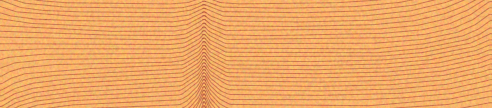
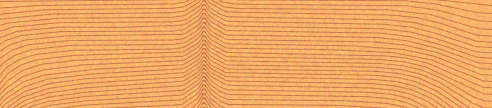
cp-eras-ui: veneer, the EMAIL card's seam is a lattice and the small surfaces' ends fall the right way
The EMAIL card's lines leaned to horizontal at the seam, a dark smear;
they now lean 15-20 degrees into a crossing band and gather to a point
at the right edge, with the top swirl on the main comb. The mail row's
lines curve down into its seam (they rose), with the left end's step;
the SMG button's and BASKET band's right ends fall toward the edge.
Traces that ran out and back along one arm are trimmed. Panel and
store card are byte-identical. Goldens follow.

diff --git a/home/common/pkgs/cp-eras-ui/scripts/make-veneer.py b/home/common/pkgs/cp-eras-ui/scripts/make-veneer.py
@@ -29,6 +29,9 @@ drawn with the *line, ground and grain* measured for the blend generator.
    `ripple` (zigzag), `knot`. Amounts and curves may be piecewise linear
    across the grain ([(s, value), ...]). A family may also be cut to a
    strip across the grain (`swindow`); its lines end at the cut, a jog.
+   A term marked `comb` ('main' or 'twin') shapes that comb only, so the
+   other runs straight through it and the two cross (the EMAIL card's
+   top arcs).
 
 2. Lines. The lines are the levels phi = (k + offset) * pitch: constant
    pitch away from the figure, `pitch` the measured per-comb spacing
@@ -92,6 +95,23 @@ STREAK_LEAN = dict(kind='lean', ts=(110.0, 115.5), w=1.2, amount=(-2.8, -3.0),
 STREAK_BEND = dict(kind='bend', ts=121.46, w=16.0, p=2.0,
                    amount=[(0.0, 0.0), (200.0, -3.0), (235.0, -4.0), (262.0, -3.5)])
 
+# The EMAIL card (2026-11-15 second refinement). LEAN_L is the lower leaf's
+# lean in its mirrored coordinates; the two are not symmetric, so the
+# crossing band sits a little above the axis, as the reference's does.
+EMAIL_LEAN_U = dict(kind='lean', ts=(122.0, 110.0), w=4.0, amount=(-0.3, -0.15))
+EMAIL_LEAN_L = dict(kind='lean', ts=(140.0, 118.0), w=4.0, amount=(-0.3, -0.15))
+EMAIL_CUSP = dict(kind='bend', ts=150.8, w=18.0, c=0.6, amount=(0.0, -50.0), power=3.0)
+EMAIL_EDGE = dict(kind='knot', at=(97.0, 160.0), r=(14.0, 1e6), amount=5.0, real=True)
+EMAIL_TOP = dict(kind='bend', ts=70.0, w=110.0, p=2.0, amount=(0.0, 30.0), real=True)
+EMAIL_SWIRL = dict(kind='shear', ts=44.0, w=9.0, amount=(0.5, 1.3), comb='main')
+MAIL_STEP = [(0.0, 50.0), (17.0, 70.0), (32.0, 60.0), (55.0, 35.0)]
+MAIL_SEAM = dict(kind='bend', ts=238.1, w=6.0, p=2.0, amount=(-1.0, -12.0))
+MAIL_CREASE = dict(kind='bend', ts=238.1, w=2.0, p=2.0, amount=(0.0, -4.0), power=1.5)
+SMG_SEAM = dict(kind='bend', ts=99.6, w=6.0, p=2.0, amount=(4.0, 9.0))
+SMG_CREASE = dict(kind='bend', ts=99.6, w=1.5, p=2.0, amount=(1.0, 3.0))
+BASKET_SEAM = dict(kind='bend', ts=85.0, w=6.0, p=2.0, amount=(4.5, 5.5))
+BASKET_CREASE = dict(kind='bend', ts=85.0, w=1.5, p=2.0, amount=(2.5, 3.0))
+
 SURFACES = {
     # Store, the selected card's body and socket band (262.1 x 241.7).
     # Vertical grain; the streak at t 121.46 (texel 291.5) is a book-match:
@@ -120,9 +140,17 @@ SURFACES = {
         ],
     ),
     # Dashboard, the selected EMAIL cascade card (#ncardsel, 90.5 x 325.2).
-    # Vertical grain; book-match about t 150.8 (texel 362), where both
-    # leaves hook right into a point at the right edge; a crossing leaf
-    # at the top-left chamfer; the foot bends left along the diagonal cut.
+    # Vertical grain, denser in the upper half (EMAIL_TOP) and towards the
+    # right edge (EMAIL_EDGE); book-match about t 150.8 (texel 362). Both
+    # leaves lean into the seam (EMAIL_LEAN_*: about 15-20 deg) and on
+    # across it, so at the left they cross in a lattice band from t ~125
+    # to ~160 (texel 300-384, the reference's); towards the right edge
+    # EMAIL_CUSP, a knee at the axis gathered to the edge (power 3), turns
+    # them into a spindle whose point is on the right edge at the axis.
+    # At the top the main comb alone shears up-left above t 44
+    # (EMAIL_SWIRL, `comb`), the twin running on straight through it: the
+    # reference's crossing arcs under the chamfer. The foot leans a little
+    # left along the diagonal cut.
     'dashboard-email': dict(
         size=(90.5, 325.2), axis='v', seed=1101, pitch=8.9 / R,
         twin=dict(offset=0.62, shift=-1.0),
@@ -130,17 +158,10 @@ SURFACES = {
         wave=dict(amp=1.6, along=160.0, across=40.0),
         kinks=dict(n=10, amp=1.2, rs=(3.0, 8.0), rt=(4.0, 12.0)),
         families=[
-            # Each leaf runs straight, then leans right ever harder into
-            # the seam and on across it, so the two leaves cross there.
-            dict(window=(None, 157.0), terms=[
-                dict(kind='bend', ts=0.0, w=30.0, amount=(-34.0, -10.0)),
-                dict(kind='lean', ts=(124.0, 96.0), w=3.0, amount=(-0.1, -0.1),
-                     accel=(-0.03, -0.1), accel_power=1.0),
-            ]),
-            dict(mirror=150.8, window=(144.6, None), terms=[
-                dict(kind='lean', ts=(124.0, 96.0), w=3.0, amount=(-0.1, -0.1),
-                     accel=(-0.03, -0.1), accel_power=1.0),
-                dict(kind='bend', ts=325.2, w=34.0, amount=(-26.0, -4.0), real=True),
+            dict(window=(None, 160.0), terms=[EMAIL_LEAN_U, EMAIL_CUSP, EMAIL_EDGE, EMAIL_TOP, EMAIL_SWIRL]),
+            dict(mirror=150.8, window=(125.0, None), terms=[
+                EMAIL_LEAN_L, EMAIL_CUSP, EMAIL_EDGE, EMAIL_TOP,
+                dict(kind='bend', ts=325.2, w=34.0, amount=(8.0, 0.0), real=True),
             ]),
         ],
     ),
@@ -186,9 +207,12 @@ SURFACES = {
             ]),
         ],
     ),
-    # Mailbox, the selected row (477 x 55). Horizontal grain; the left end's
-    # lines rise to the top edge; book-match about t 238.1 (texel 571.5):
-    # lines from both sides hook into it, a narrow crease.
+    # Mailbox, the selected row (477 x 55). Horizontal grain; at the left
+    # end the lines rise to the top edge and step down across a band that
+    # bulges right at mid-height (the ramp, centre MAIL_STEP, 36 wide);
+    # book-match about t 238.1 (texel 571.5): lines from both sides curve
+    # DOWN into it (the reference's arcs; the third pass had them rising),
+    # more towards the bottom edge.
     'mailbox-row': dict(
         size=(477.0, 55.0), axis='h', seed=1303, pitch=5.7 / R,
         twin=dict(offset=0.74),
@@ -197,19 +221,19 @@ SURFACES = {
         kinks=dict(n=10, amp=0.8, rs=(2.0, 5.0), rt=(6.0, 18.0)),
         families=[
             dict(window=(None, 239.0), terms=[
-                dict(kind='bend', ts=0.0, w=24.0, amount=(22.0, 10.0)),
-                dict(kind='bend', ts=238.1, w=12.0, p=2.0, amount=(4.0, 40.0), power=1.3),
-                dict(kind='bend', ts=238.1, w=2.0, p=2.0, amount=(0.0, 10.0), power=1.5),
+                dict(kind='bend', ts=-3.0, w=14.0, amount=(32.0, 12.0)),
+                dict(kind='ramp', k=5.0, a=[(x, t - 18.0) for x, t in MAIL_STEP],
+                     b=[(x, t + 18.0) for x, t in MAIL_STEP], amount=[(0.0, -16.0), (55.0, -16.0)]),
+                MAIL_SEAM, MAIL_CREASE,
             ]),
-            dict(mirror=238.1, window=(237.2, None), terms=[
-                dict(kind='bend', ts=238.1, w=12.0, p=2.0, amount=(4.0, 40.0), power=1.3),
-                dict(kind='bend', ts=238.1, w=2.0, p=2.0, amount=(0.0, 10.0), power=1.5),
-            ]),
+            dict(mirror=238.1, window=(237.2, None), terms=[MAIL_SEAM, MAIL_CREASE]),
         ],
     ),
     # Store, the selected SMG category (200.6 x 38.6). Horizontal grain,
     # lines pinching at the left end; book-match about t 99.6 (texel 239,
-    # the button's middle) where the lines bend into a vertical crease.
+    # the button's middle) where the lines rise into a narrow crease
+    # (about +-10 texels, 20-45 deg, as measured); at the right end they
+    # all fall towards the right edge.
     'store-nav': dict(
         size=(200.6, 38.6), axis='h', seed=1404, pitch=4.9 / R,
         twin=dict(offset=0.61),
@@ -218,21 +242,20 @@ SURFACES = {
         kinks=dict(n=6, amp=0.8, rs=(2.0, 5.0), rt=(5.0, 14.0)),
         families=[
             dict(window=(None, 100.4), terms=[
-                dict(kind='bend', ts=0.0, w=16.0, amount=(14.0, -10.0)),
-                dict(kind='bend', ts=99.6, w=10.0, p=2.0, amount=(3.0, 26.0), power=1.3),
-                dict(kind='bend', ts=99.6, w=2.0, p=2.0, amount=(0.0, 7.0), power=1.5),
+                dict(kind='bend', ts=-3.0, w=16.0, amount=(17.0, -12.0)),
+                SMG_SEAM, SMG_CREASE,
             ]),
             dict(mirror=99.6, window=(98.8, None), terms=[
-                dict(kind='bend', ts=99.6, w=10.0, p=2.0, amount=(3.0, 26.0), power=1.3),
-                dict(kind='bend', ts=99.6, w=2.0, p=2.0, amount=(0.0, 7.0), power=1.5),
-                dict(kind='bend', ts=200.6, w=14.0, amount=(-8.0, 8.0), real=True),
+                SMG_SEAM, SMG_CREASE,
+                dict(kind='bend', ts=200.6, w=20.0, p=2.0, amount=(-16.0, -8.0), real=True),
             ]),
         ],
     ),
     # Store, the BASKET plate's lower band (204.6 x 45). Horizontal grain,
-    # one comb, a crease at t 85 (design x 1377) that the lines barely bend
-    # into -- two leaves meeting, not a mirror (none was measured); they
-    # rise at the right end.
+    # one comb, a crease at t 85 (design x 1377) that the lines bow up
+    # into evenly top to bottom -- two leaves meeting, not a mirror (none
+    # was measured). At the left end the lower lines fall to the edge; at
+    # the right end the lines fall towards the edge, most at the bottom.
     'store-basket': dict(
         size=(204.6, 45.0), axis='h', seed=1606, pitch=4.4 / R,
         look=dict(ground=(249, 181, 107), single=(202, 120, 79), grain=(6.0, 6.0, 6.0)),
@@ -240,14 +263,12 @@ SURFACES = {
         kinks=dict(n=6, amp=0.8, rs=(2.0, 5.0), rt=(5.0, 14.0)),
         families=[
             dict(window=(None, 85.5), terms=[
-                dict(kind='bend', ts=85.0, w=6.0, p=2.0, amount=(2.0, 8.0)),
-                dict(kind='bend', ts=85.0, w=1.5, p=2.0, amount=(1.0, 5.0)),
-                dict(kind='bend', ts=0.0, w=14.0, amount=(6.0, -10.0), real=True),
+                BASKET_SEAM, BASKET_CREASE,
+                dict(kind='bend', ts=-3.0, w=14.0, amount=(0.0, -18.0), real=True),
             ]),
             dict(window=(84.5, None), terms=[
-                dict(kind='bend', ts=85.0, w=6.0, p=2.0, amount=(2.0, 8.0)),
-                dict(kind='bend', ts=85.0, w=1.5, p=2.0, amount=(1.0, 5.0)),
-                dict(kind='bend', ts=204.6, w=22.0, amount=(14.0, 4.0), real=True),
+                BASKET_SEAM, BASKET_CREASE,
+                dict(kind='bend', ts=204.6, w=26.0, p=2.0, amount=(-4.0, -18.0), real=True),
             ]),
         ],
     ),
@@ -447,9 +468,13 @@ def phi_at(surf, fam, s, t, twin):
     """phi of a family, for the main comb or the twin (whose figure terms
     sit `shift` design px further along the grain, so the two combs knee
     on alternate rows, as the reference's do)."""
+    # A term marked `comb` ('main' or 'twin') bends that comb only, so the
+    # other runs straight through it: two leaves crossing in one family.
+    which = 'twin' if twin else 'main'
+    terms = [term for term in fam['terms'] if term.get('comb', which) == which]
     if twin and surf.twin.get('shift'):
-        fam = dict(fam, terms=[shifted(term, surf.twin['shift']) for term in fam['terms']])
-    return family_phi(surf, fam, s, t)[0]
+        terms = [shifted(term, surf.twin['shift']) for term in terms]
+    return family_phi(surf, dict(fam, terms=terms), s, t)[0]
 
 
 def shifted(term, dt):
@@ -590,7 +615,13 @@ def trace_family(surf, fam, twin):
         j = same[np.argmin(dd)]
         if dd.min() < 4 * h and j < i:
             continue
-        keep.append((np.array(paths[i]), int(lev[i])))
+        Q = np.array(paths[i])
+        if len(Q) > 2 and np.hypot(*(Q[-1] - Q[0])) < 4 * h:
+            # Out and back: the tracer stepped through a cusp and came
+            # back along the same arm. Keep the way out only, to its
+            # farthest point, so the arm is not stroked twice.
+            Q = Q[:int(np.argmax(np.hypot(*(Q - Q[0]).T))) + 1]
+        keep.append((Q, int(lev[i])))
     return keep
 
 

diff --git a/home/common/pkgs/cp-eras-ui/docs/neokitsch/veneer-texture.md b/home/common/pkgs/cp-eras-ui/docs/neokitsch/veneer-texture.md
@@ -134,6 +134,101 @@ band past the reference's G < 140 counts); the store card's upper streak
 and zigzag, the EMAIL crossing, the small surfaces' seams and the
 overall line density were not revisited.
 
+### Second refinement (2026-11-15)
+
+Four surfaces refit (EMAIL card, mailbox row, SMG button, BASKET band);
+`dashboard-panel.png` and `store-card.png` are byte-identical. Angles
+below are line directions from a structure tensor on the native 4K crop
+(texel coordinates; for the EMAIL card degrees from vertical, negative =
+going down to the right; for the horizontal surfaces degrees from
+horizontal, positive = rising to the right). Reference / previous / now.
+
+Two generator changes, neither of which alters the panel or store card:
+
+- **`comb`.** A term marked `comb='main'` (or `'twin'`) shapes that comb
+  only; the other runs straight through it, so the two cross.
+- **Out-and-back traces trimmed.** A trace that ends where it started
+  (the tracer stepped through a cusp and came back up the same arm) is
+  cut at its farthest point, so the arm is not stroked twice. The EMAIL
+  card's knee at the axis made six such traces; the old SMG left bend
+  (`p=1` with its corner at t=0, inside the tracing box) made three.
+  The left-end bends of the SMG, mailbox and BASKET now sit at
+  `ts=-3`, outside the box.
+
+- **EMAIL card.** The previous seam bent every line nearly horizontal
+  (angles to +-90 from x 10 to 210) into a dark horizontal band, which
+  is not what the reference does: its lines lean only 15-20 deg into a
+  crossing lattice from texel y ~300 to ~384 at the left, and only
+  towards the right edge do they curve into a spindle whose point is on
+  the right edge at the axis. Now: `EMAIL_LEAN_U` / `EMAIL_LEAN_L`, a
+  lean of -0.3 at the left easing to -0.15 at the right (ts (122, 110)
+  for the upper leaf, (140, 118) for the lower in its mirrored
+  coordinates, so the band sits a little above the axis as the
+  reference's does), windows (None, 160) / (125, None); `EMAIL_CUSP`, a
+  knee bend at the axis (w 18, c 0.6, amount 0 to -50, power 3: only the
+  right edge gathers). Angle at rows 300 / 340 / 380, x 10 ... 210:
+  reference -5 -12 -17 -17 -12 -22 / 0 4 12 12 8 -37 / 5 13 17 13 6 52;
+  previous -11 -29 -55 -75 -85 90 / -55 -75 -88 88 -90 90 / 61 79 89
+  -87 89 -89; now -3 -7 -10 -15 -19 -23 / 2 -3 -17 -40 -66 -71 / -2 2
+  13 36 67 72. The top-left swirl is `EMAIL_SWIRL`, a `shear` on the
+  main comb only (above t 44, w 9, amount 0.5 to 1.3), the twin running
+  straight through it: the reference's crossing arcs under the chamfer
+  (its angle at y 0-60 is negative, up-left; the previous top bend leaned
+  the other way, +20..+35). `EMAIL_TOP` (a bend proportional to s, real,
+  t 70, w 110, 30) packs the upper half tighter and `EMAIL_EDGE` (a
+  knot centred past the right edge, r 14, 5) the right edge, as measured:
+  pitch at y 100-260 in six bins across, reference 5.5 4.2 3.8 3.7 3.9
+  3.1, previous 4.5 4.1 4.4 4.5 4.4 4.6, now 4.6 3.7 4.1 3.9 3.9 4.0. The
+  foot's bend now leans the lines a little left (amount 8 to 0), as the
+  reference's do (+3..+12 at y 560-660; the previous -5..-26).
+- **Mailbox row.** The seam's lines curved the wrong way: in the
+  reference they curve *down* into the seam, more towards the bottom
+  edge; ours rose. `MAIL_SEAM` is now w 6, amount -1 to -12 (was w 12,
+  4 to 40), `MAIL_CREASE` 0 to -4. Angle at x 530 / 545 / 560 (left of
+  the seam), rows 90 and 130: reference -80(text) 87(text) -60 / -2 -19
+  -54; previous 33 50 63 / 58 74 65; now 0 -13 -53 / -2 -19 -72. The
+  left end gains the reference's step: a `ramp` (amount -16) across a
+  band 36 wide whose centre runs t 50 / 70 / 60 / 35 at s 0 / 17 / 32 /
+  55 (`MAIL_STEP`), the lines descending ~30 deg through it. A band
+  that bulges more (the reference's centre swings 60 in t over 30 in s)
+  makes `phi` non-monotone across the grain and the lines overlap into
+  dark bundles: keep `amount * dcentre/ds / width` under ~0.6.
+- **SMG button.** The seam is narrower (w 6, amount 4 to 9; was w 10,
+  3 to 26): angle at x 230 / 250, rows 45 / 65 / 85: reference 44 -54 /
+  20 -25 / 1 -1; previous 41 -45 / 76 -53 / 68 -57; now 40 -37 / 59 -52
+  / 69 -61 (still too steep at the bottom). The right end now falls
+  towards the edge (bend w 20, p 2, amount -16 to -8): at x 435 / 465,
+  rows 20 and 50, reference -30 -29 / -45 -32, previous -3 -5 / 1 2, now
+  -22 -16 / -17 -16.
+- **BASKET band.** The right end fell in the reference and rose in ours;
+  now a bend at the right edge w 26, p 2, amount -4 to -18: at x 400 /
+  430 / 460, rows 53 and 77, reference -43 -44 -10 / -33 -19 -12,
+  previous 5 9 9 / 4 4 11, now -5 -12 -18 / -9 -21 -22. The seam bows
+  evenly top to bottom (amount 4.5 to 5.5, crease 2.5 to 3) as measured
+  (+16..+26 / -13..-19 at x 190 / 220 on every row); the left end's
+  lower lines fall to the edge (amount 0 to -18).
+
+Line density, mean G and pitch (native px) in clear windows, reference /
+now (the four surfaces above) or unchanged: EMAIL lower half 177.2 4.38
+/ 178.1 4.29, upper half 173.7 3.53 / 175.3 4.01; panel 177.6 5.81 /
+182.9 6.28 (unchanged); store card 177.7 6.80 / 191.8 6.27 (unchanged;
+the reference's lines are darker, not denser); SMG 179.0 4.12 / 174.0
+2.77; BASKET 162.3 4.03 / 165.9 4.52; mailbox 174.7 4.29 / 182.9 4.04.
+
+Still wrong after it: the EMAIL band's top and bottom edges are hard
+horizontal cuts (window ends) where the reference's are softer, and its
+crossing lines are straight where the reference's curve; the EMAIL
+swirl's arcs are 30-deg chords, not the reference's nested curves. The
+mailbox seam lacks the reference's dark full-height crease line, the
+lines meet in a V rather than turning vertical, and the left-end step
+is shallower than the reference's S. The SMG seam is still too steep at
+the bottom and the SMG lines are denser than the reference's (2.8 vs 4.1
+px). The panel (bottom-left clump, kinks at x ~135 / ~200, the lines
+under the crease, the crease line) and the store card (pointed core,
+rising knees, upper streak, zigzag) were not revisited, and neither was
+the overall density: the panel reads ~5 G levels lighter and ~8% sparser
+than the reference, the store card's lines ~14 levels lighter.
+
 ## Surfaces
 
 | Texture | Surface | Design box | Texels |
